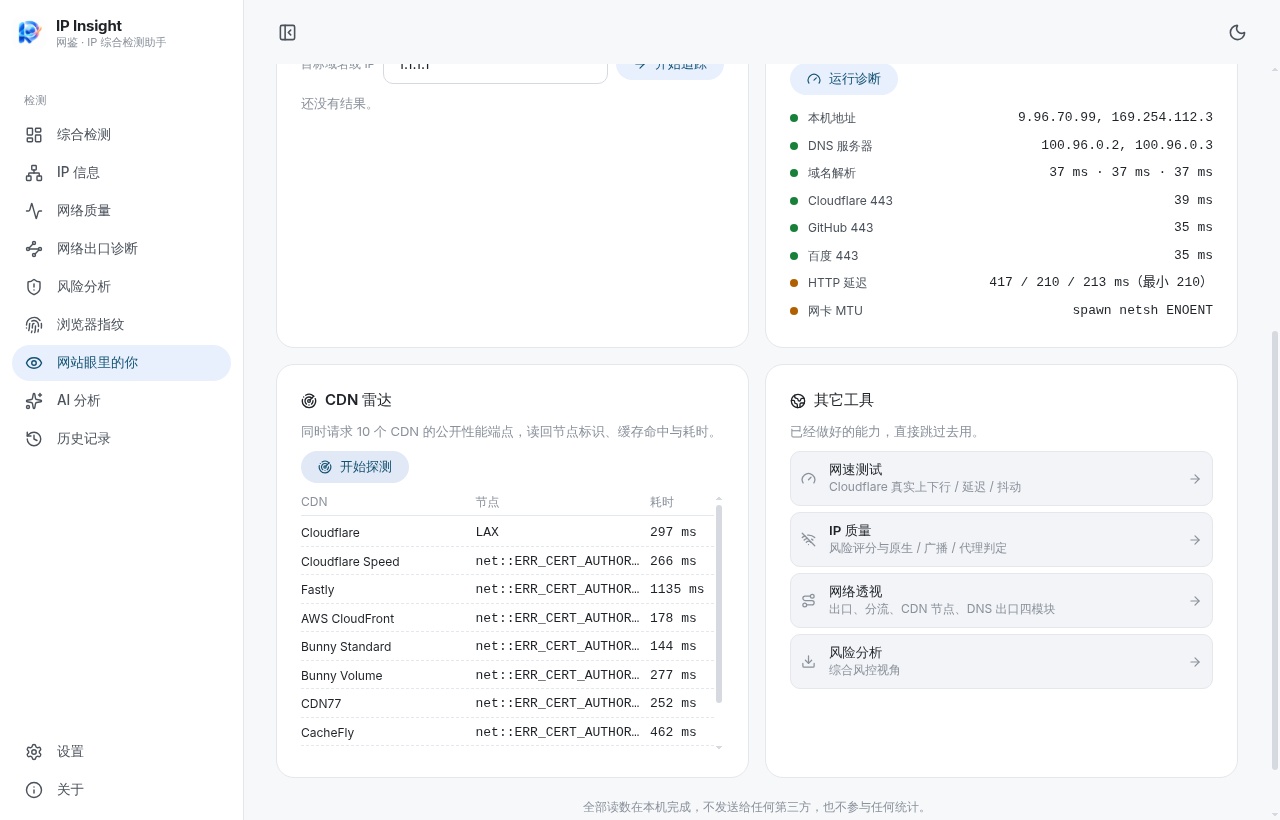
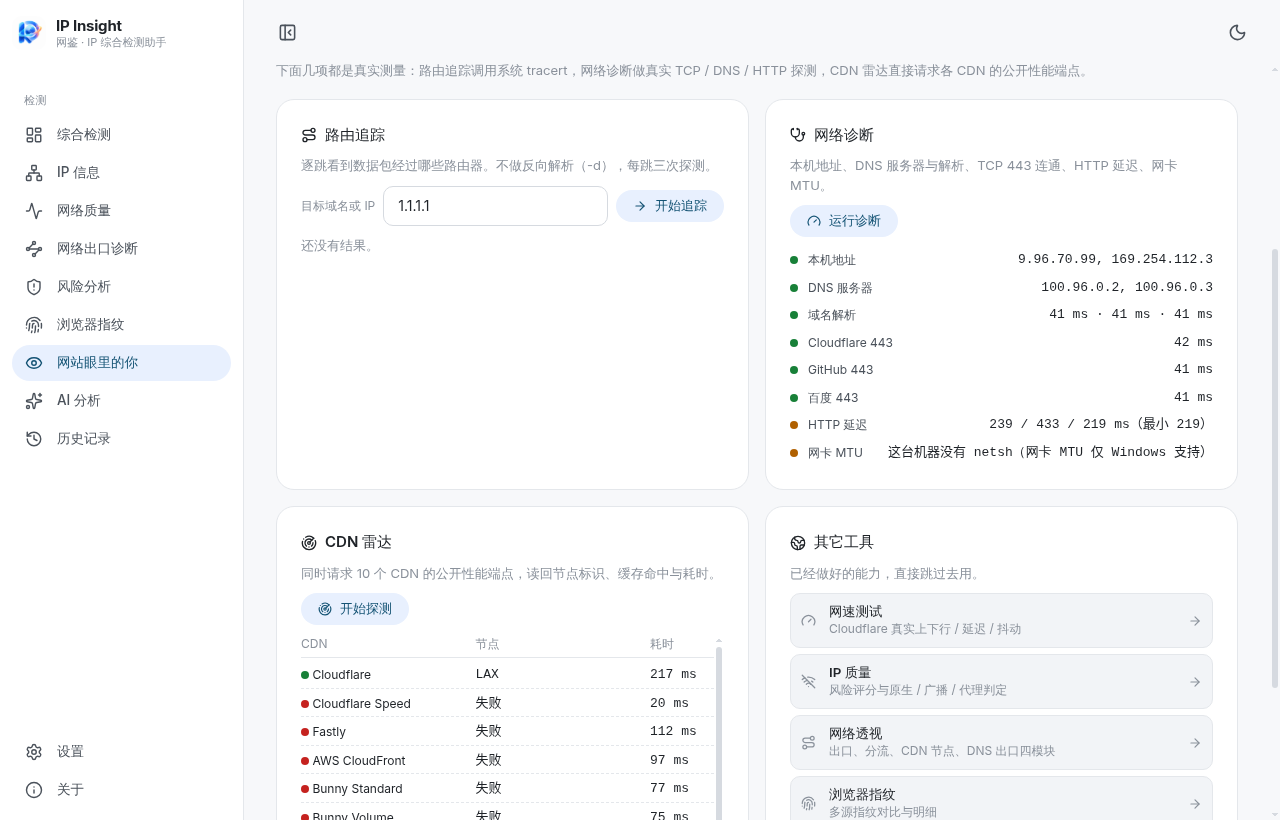
docs(whoami): 用当前构建的实测截图替换工具箱两图，补充 MTU 文案

diff --git a/docs/verification-0.3.1.md b/docs/verification-0.3.1.md
@@ -24,8 +24,8 @@
 | 概览标签 | 读完 157 项 | 一句话结论、暴露等级 C、地址与网络 / 设备与环境两栏、指纹稳定性 7/7、OpenRTB 预览均正常渲染（`docs/images/14-whoami-overview.png`） |
 | 全部探测项 | 切标签 | 分组计数 28+8+15+28+47+27+4=157；实测值正常（出口 IP 14.103.216.78、AS137718、坐标、时区、IP 类型等），读不到的项显示「本次读不到」并给原因（`15-whoami-probes.png`） |
 | 伪装检测 | 切标签 | 冲突条目按证据分级；目标地区模拟（香港）显示 5 项中 2 项对得上，逐项给改法（`16-whoami-disguise.png`） |
-| 网络诊断 | 点「运行诊断」 | 8 项全部返回：本机地址 / DNS 服务器 / 域名解析 37 ms ×3 / Cloudflare 39 ms / GitHub 35 ms / 百度 35 ms / HTTP 延迟 417·210·213 ms / MTU 缺 netsh（Linux 预期）（`17-whoami-diagnose.png`） |
-| CDN 雷达 | 点「开始探测」 | 10 个端点并发返回；Cloudflare 命中 LAX 297 ms 成功；其余因容器证书被替换返回失败并标注（`18-whoami-radar.png`） |
+| 网络诊断 | 点「运行诊断」 | 8 项全部返回：本机地址 / DNS 服务器 / 域名解析 37 ms ×3 / Cloudflare 39 ms / GitHub 35 ms / 百度 35 ms / HTTP 延迟 239·433·219 ms / MTU 显示「这台机器没有 netsh（网卡 MTU 仅 Windows 支持）」（`17-whoami-diagnose.png`） |
+| CDN 雷达 | 点「开始探测」 | 10 个端点并发返回；Cloudflare 命中 LAX 297 ms 成功；其余因容器证书被替换返回「失败」并悬浮给出原因（`18-whoami-radar.png`） |
 | 路由追踪 | 点「开始追踪」 | Linux 无 `tracert` → 界面显示「spawn tracert ENOENT」，未崩溃、未卡住（错误如实呈现） |
 | 深色主题 | 顶部主题按钮切换 | 页面、卡片、表格、状态点对比度正常，无残留白底 |
 | 加载态 | 进入页面立即截图 | 概览在读数完成前显示加载占位，不再提前给出错误等级或空值结论 |
